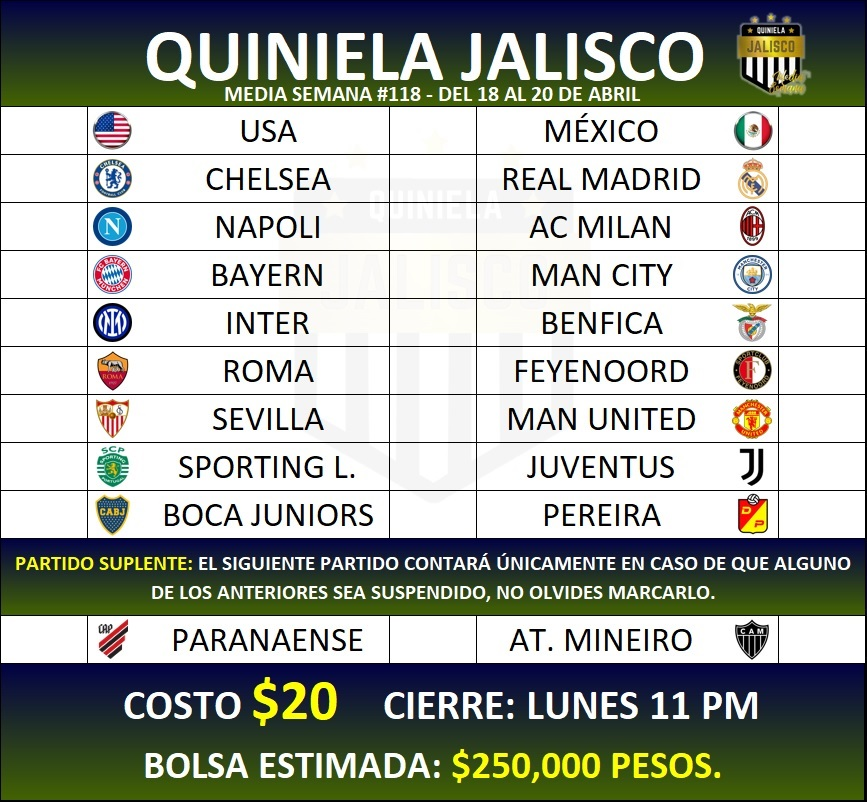
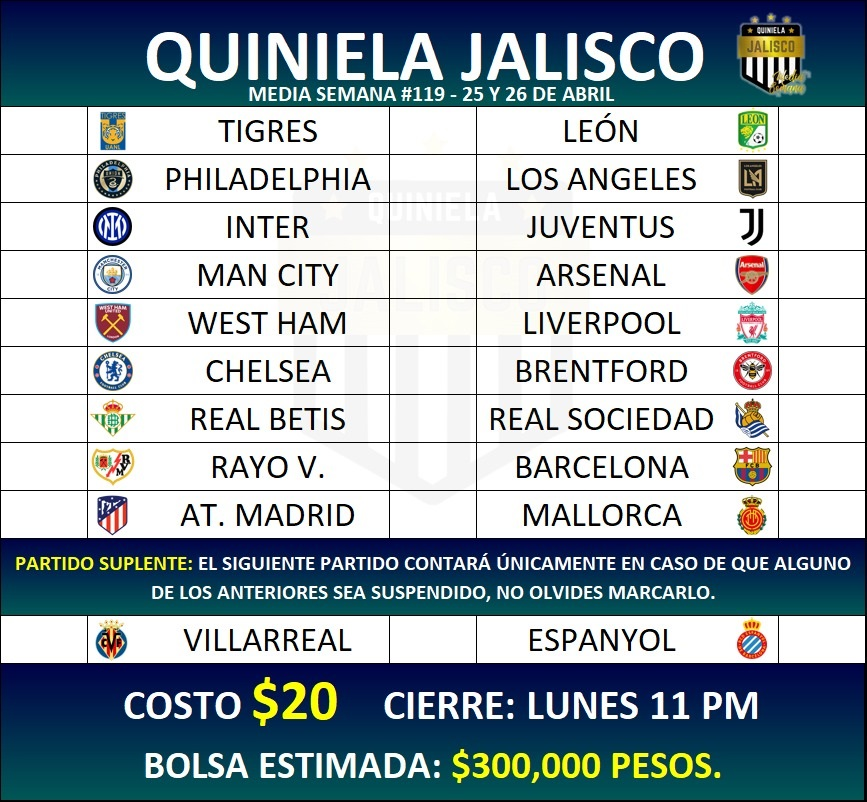
Media Semana #119

diff --git a/MediaSemana/stylesmSusp.css b/MediaSemana/stylesmSusp.css
@@ -93,8 +93,8 @@ body{
     margin-top: 9%;
     border: solid 1px black;
     border-radius: 0 0 14px 14px;
-    background: -webkit-linear-gradient(1turn, rgb(0,2,67)  ,rgb(37,55,33) 80%);
-    background: linear-gradient(1turn, rgb(0,2,67)  ,rgb(37,55,33) 80%);
+    background: -webkit-linear-gradient(1turn, rgb(0,2,67)  ,rgb(1,57,80) 80%);
+    background: linear-gradient(1turn, rgb(0,2,67)  ,rgb(1,57,80) 80%);
 }
 
 .text-lg{
@@ -289,7 +289,7 @@ h6{
 }
 
 #cantidad:before{
-    content:' $250,000 pesos';
+    content:' $300,000 pesos';
     color: yellow;
     white-space:pre;
 }
